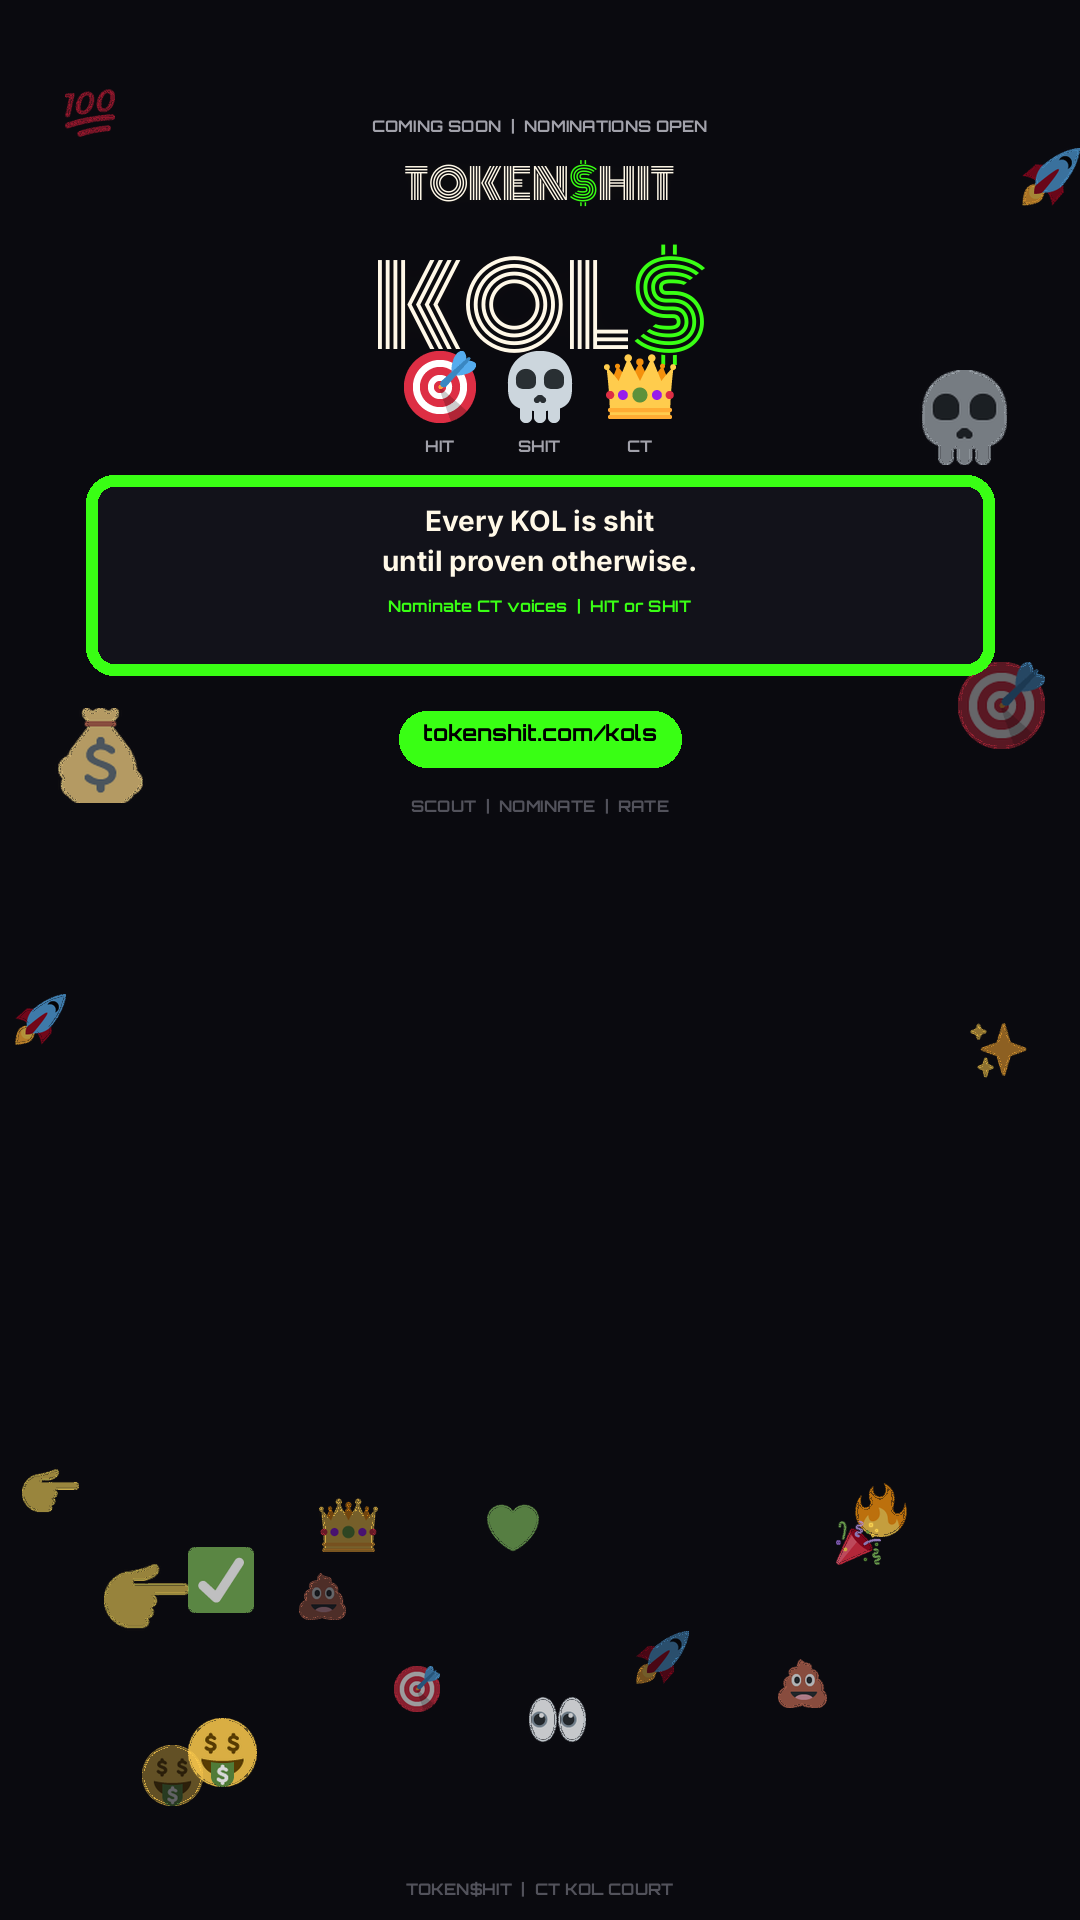
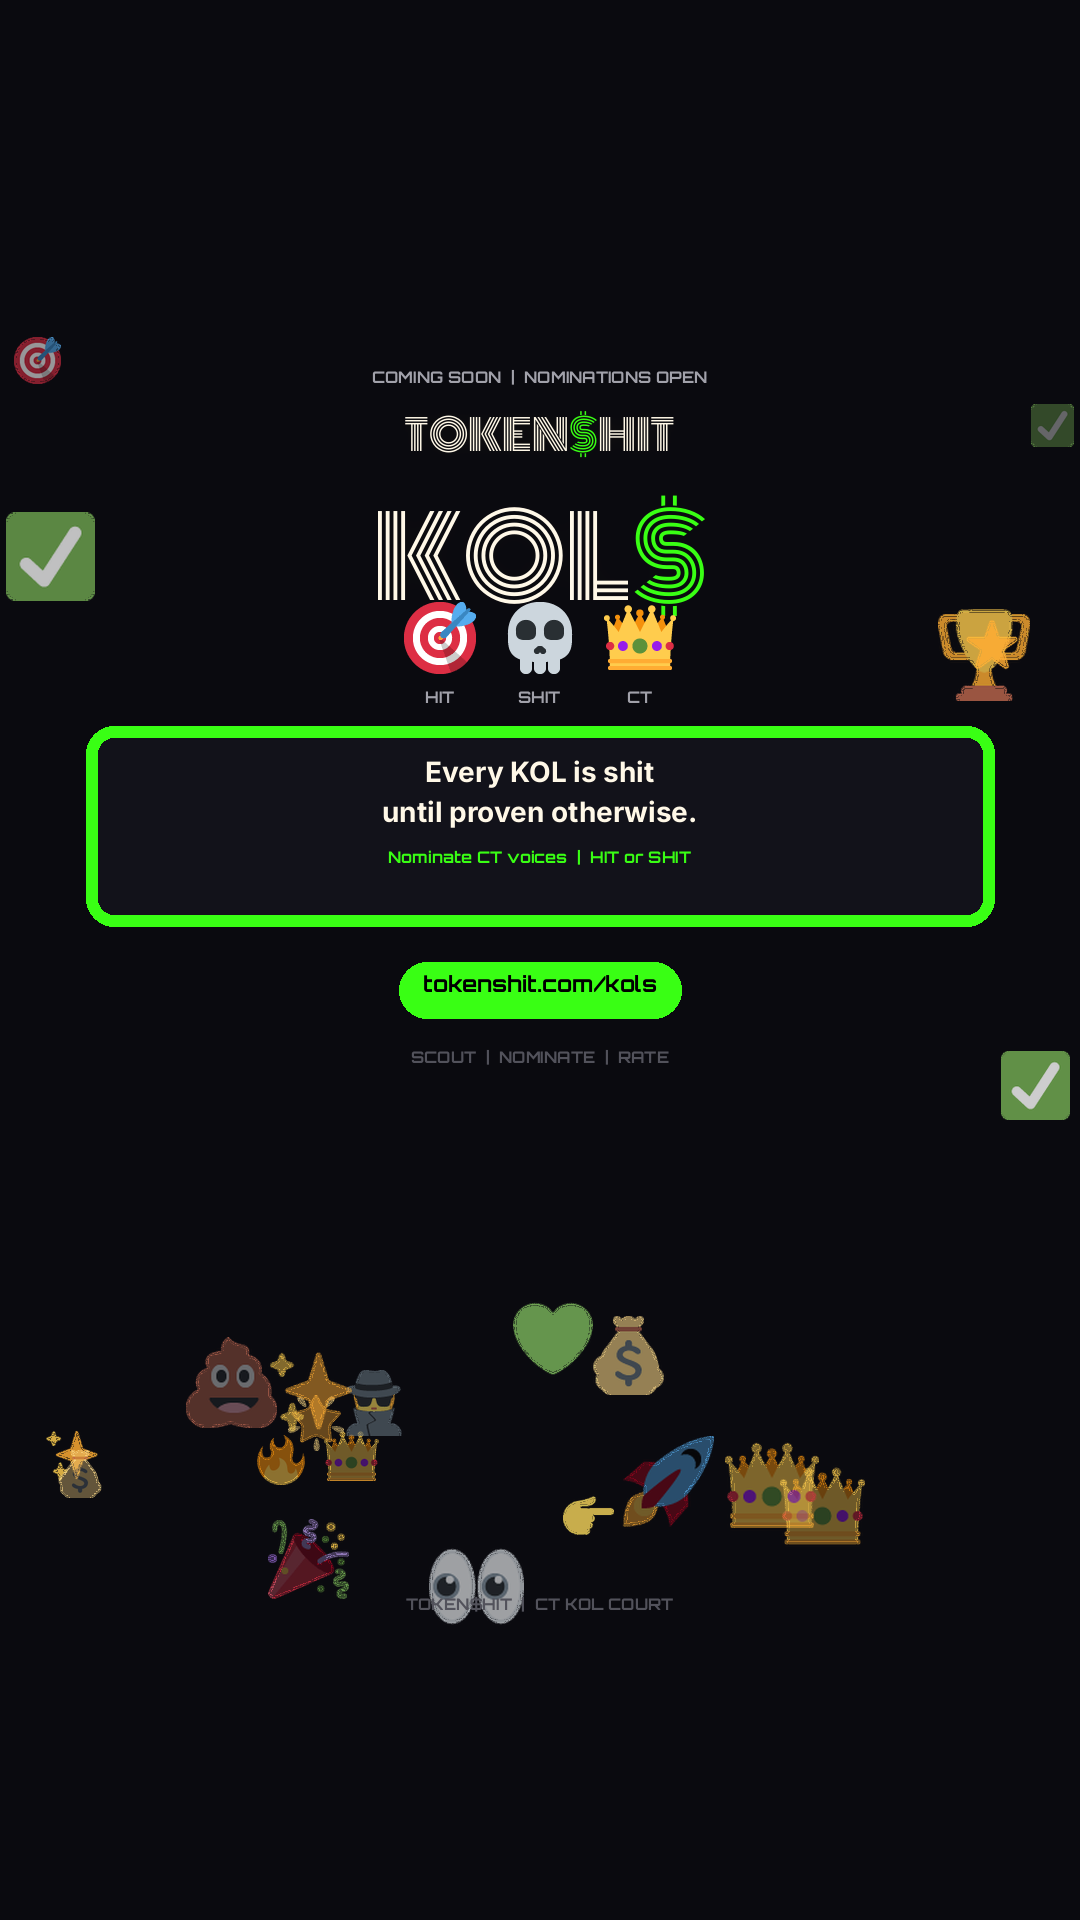
fix: KOL poster size set + story letterbox 1080x1920

diff --git a/scripts/generate-kols-poster.py b/scripts/generate-kols-poster.py
@@ -128,6 +128,10 @@ def make_poster(size: tuple[int, int], tag: str) -> Image.Image:
 
     # scale
     s = w / 1080
+    # Story (9:16): bump type so stack fills frame
+    tall = h / max(w, 1) >= 1.6
+    if tall:
+        s *= 1.12
     fs = lambda n: max(12, int(n * s))
 
     mono_sm = load_font("Monoton-Regular.ttf", fs(42))
@@ -138,7 +142,8 @@ def make_poster(size: tuple[int, int], tag: str) -> Image.Image:
     inter = load_font("Inter-Bold.ttf", fs(28))
     inter_sm = load_font("Inter-Regular.ttf", fs(22))
 
-    y = int(h * 0.06)
+    # Taller stories: start content higher in upper-middle (less empty void)
+    y = int(h * (0.10 if h / w > 1.5 else 0.06))
 
     # eyebrow
     eye = "COMING SOON  |  NOMINATIONS OPEN"
@@ -252,6 +257,34 @@ def make_poster(size: tuple[int, int], tag: str) -> Image.Image:
     url2 = "TOKEN$HIT  |  CT KOL COURT"
     u2w = text_w(orb_sm, url2)
     draw.text(((w - u2w) // 2, h - fs(42)), url2, font=orb_sm, fill=DIM)
+
+    # Center content vertically on very tall canvases (avoid empty bottom half)
+    if tall:
+        # find non-bg bounding content (approx upper 70%)
+        # shift scatter stays; only nudge mid stack by redrawing is heavy —
+        # paste a slight vertical bias: crop empty bottom and pad top equally
+        px = img.load()
+        bg = BG
+        # find last non-near-bg row above footer zone
+        last = h - fs(80)
+        for yy in range(h - fs(100), int(h * 0.35), -1):
+            row_has = False
+            for xx in range(0, w, 8):
+                c = px[xx, yy]
+                if abs(c[0]-bg[0])>12 or abs(c[1]-bg[1])>12 or abs(c[2]-bg[2])>12:
+                    row_has = True
+                    break
+            if row_has:
+                last = yy
+                break
+        # if content ends early, add more scatter lower third only
+        if last < h * 0.62:
+            scatter_emojis(img, f"kols-fill-{tag}-{w}x{h}", n=18)
+            # re-draw footer on top
+            draw = ImageDraw.Draw(img)
+            fw = text_w(orb_sm, foot)
+            draw.text(((w - fw) // 2, h - fs(70)), foot, font=orb_sm, fill=DIM)
+            draw.text(((w - u2w) // 2, h - fs(42)), url2, font=orb_sm, fill=DIM)
 
     return img.convert("RGB")
 
